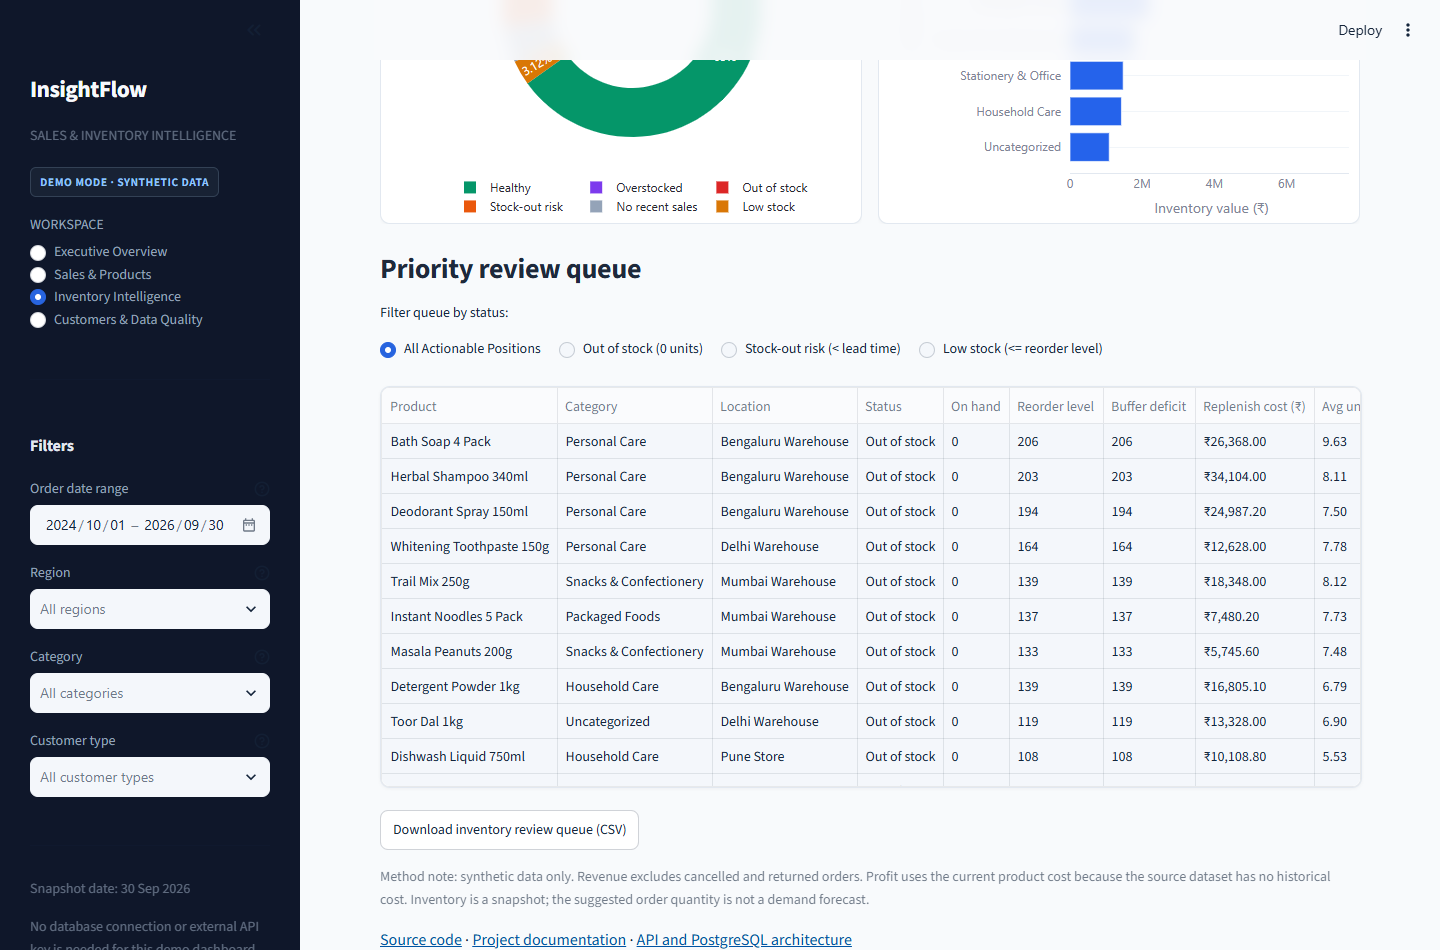
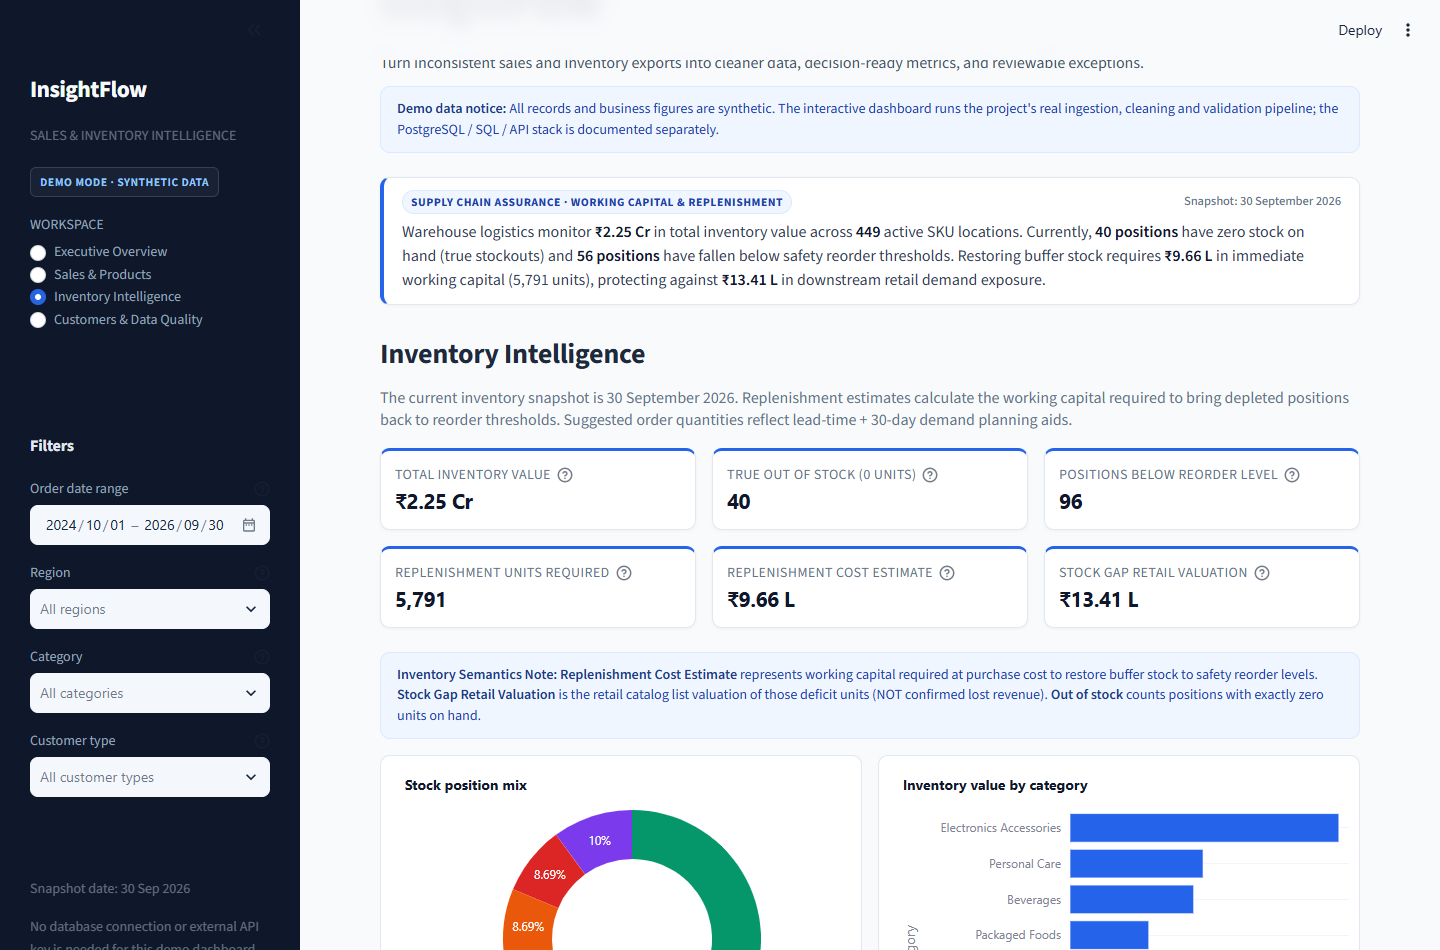
fix(ui): polish Streamlit KPI card presentation and refresh Power BI report captures
- Prevent truncation and ellipsis in Streamlit KPI metric values using responsive clamp sizing
- Preserve full currency precision in help tooltips with format_exact_inr()
- Update Power BI PBIP visual containers with human-friendly headers and axis titles
- Configure Margin Investigation scatter chart Details role for product-level point plotting
- Sort Inventory replenishment queue descending and format stock values in Lakhs and Crores
- Recapture genuine high-resolution screenshots for all Streamlit runtime and Power BI Desktop views

diff --git a/streamlit_app.py b/streamlit_app.py
@@ -1,5 +1,6 @@
 """Interactive InsightFlow demo dashboard; requires no PostgreSQL credentials."""
 
+import math
 from datetime import date
 
 import pandas as pd
@@ -61,14 +62,26 @@ st.markdown(
       }
       [data-testid="stMetric"] {
         background: #ffffff; border: 1px solid #e2e8f0; border-top: 3px solid #2563eb;
-        border-radius: 10px; padding: 14px 18px; box-shadow: 0 1px 3px rgba(0,0,0,0.04);
+        border-radius: 10px; padding: 12px 14px; box-shadow: 0 1px 3px rgba(0,0,0,0.04);
+        min-width: 0;
       }
       [data-testid="stMetricLabel"] {
-        color: #64748b !important; font-size: 0.80rem !important; font-weight: 650 !important;
+        color: #64748b !important; font-size: 0.78rem !important; font-weight: 650 !important;
         text-transform: uppercase; letter-spacing: 0.03em;
+        white-space: nowrap; overflow: hidden; text-overflow: ellipsis;
       }
       [data-testid="stMetricValue"] {
         color: #0f172a !important; font-weight: 750 !important; letter-spacing: -0.02em !important;
+        font-size: clamp(1.2rem, 1.45vw, 1.6rem) !important;
+        line-height: 1.25 !important;
+        white-space: nowrap !important;
+        overflow: visible !important;
+      }
+      [data-testid="stMetricValue"] > div {
+        font-size: inherit !important;
+        line-height: inherit !important;
+        white-space: nowrap !important;
+        overflow: visible !important;
       }
       div[data-testid="stPlotlyChart"] {
         background: #ffffff; border: 1px solid #e2e8f0; border-radius: 10px;
@@ -254,17 +267,41 @@ st.markdown(
 )
 
 
+def format_exact_inr(value: float | int | None) -> str:
+    """Format an exact currency amount in INR for tooltips and inspectable details."""
+    if value is None or (isinstance(value, float) and math.isnan(value)):
+        return "—"
+    return f"₹{float(value):,.2f}"
+
+
 def metric_row(frame: pd.DataFrame) -> None:
     summary = sales_summary(frame)
     cols = st.columns(5)
-    cols[0].metric("Net revenue", format_inr(summary["revenue"]))
-    cols[1].metric("Gross profit", format_inr(summary["gross_profit"]))
+    cols[0].metric(
+        "Net revenue",
+        format_inr(summary["revenue"]),
+        help=f"Audited net turnover: {format_exact_inr(summary['revenue'])}",
+    )
+    cols[1].metric(
+        "Gross profit",
+        format_inr(summary["gross_profit"]),
+        help=f"Audited gross profit: {format_exact_inr(summary['gross_profit'])}",
+    )
     cols[2].metric(
         "Gross margin",
         f"{summary['margin_pct']:.1f}%" if summary["margin_pct"] is not None else "—",
+        help="Gross Profit ÷ Net Revenue across fulfilled orders",
     )
-    cols[3].metric("Completed orders", f"{summary['orders']:,}")
-    cols[4].metric("Average order value", format_inr(summary["average_order_value"]))
+    cols[3].metric(
+        "Completed orders",
+        f"{summary['orders']:,}",
+        help=f"Total fulfilled customer orders: {summary['orders']:,}",
+    )
+    cols[4].metric(
+        "Average order value",
+        format_inr(summary["average_order_value"]),
+        help=f"Audited average order value: {format_exact_inr(summary['average_order_value'])}",
+    )
 
 
 def style_chart(
@@ -852,18 +889,38 @@ elif page == "Inventory Intelligence":
     needs_action = filtered_inventory.loc[filtered_inventory["stock_status"].isin(action_statuses)]
 
     cols1 = st.columns(3)
-    cols1[0].metric("Total Inventory Value", format_inr(inv_stats["total_inventory_value"]))
-    cols1[1].metric("True Out of Stock (0 units)", f"{inv_stats['stockout_positions']:,}")
-    cols1[2].metric("Positions Below Reorder Level", f"{inv_stats['below_reorder_positions']:,}")
+    cols1[0].metric(
+        "Total Inventory Value",
+        format_inr(inv_stats["total_inventory_value"]),
+        help=f"Audited inventory value at cost: {format_exact_inr(inv_stats['total_inventory_value'])}",
+    )
+    cols1[1].metric(
+        "True Out of Stock (0 units)",
+        f"{inv_stats['stockout_positions']:,}",
+        help="Stock positions with exactly 0 units on hand",
+    )
+    cols1[2].metric(
+        "Positions Below Reorder Level",
+        f"{inv_stats['below_reorder_positions']:,}",
+        help="Stock positions where quantity on hand is below safety reorder threshold",
+    )
 
     cols2 = st.columns(3)
     cols2[0].metric(
-        "Replenishment Units Required", f"{inv_stats['replenishment_units_required']:,}"
+        "Replenishment Units Required",
+        f"{inv_stats['replenishment_units_required']:,}",
+        help="Total units required to restore depleted buffers to safety levels",
     )
     cols2[1].metric(
-        "Replenishment Cost Estimate", format_inr(inv_stats["replenishment_cost_estimate"])
+        "Replenishment Cost Estimate",
+        format_inr(inv_stats["replenishment_cost_estimate"]),
+        help=f"Audited working capital required at purchase cost: {format_exact_inr(inv_stats['replenishment_cost_estimate'])}",
     )
-    cols2[2].metric("Stock Gap Retail Valuation", format_inr(inv_stats["stock_gap_retail_val"]))
+    cols2[2].metric(
+        "Stock Gap Retail Valuation",
+        format_inr(inv_stats["stock_gap_retail_val"]),
+        help=f"Retail catalog list valuation of deficit units: {format_exact_inr(inv_stats['stock_gap_retail_val'])}",
+    )
 
     st.markdown(
         '<div class="if-note" style="margin-top: 0.5rem; margin-bottom: 1rem;">'

diff --git a/scripts/validate_runtime_ui.py b/scripts/validate_runtime_ui.py
@@ -97,8 +97,14 @@ def run_ui_qa():
             page.locator('[data-testid="stSidebar"]').get_by_text(
                 "Sales & Products", exact=True
             ).click()
-            page.wait_for_selector("text=Price & Margin Sensitivity Simulator", timeout=15000)
-            page.wait_for_timeout(2000)
+            page.wait_for_selector("text=Sales & Product Performance", timeout=15000)
+            page.wait_for_timeout(1500)
+
+            # Capture Sales & Products at top position showing KPIs and charts
+            page.locator("text=Sales & Product Performance").scroll_into_view_if_needed()
+            page.wait_for_timeout(1000)
+            page.screenshot(path=str(OUTPUT_DIR / "02_sales_and_products.png"))
+            print("Captured fresh 02_sales_and_products.png at top position")
 
             # Check initial simulator display (defaults to Basmati Rice P0010)
             sim_metrics_before = page.locator('[data-testid="stMetricValue"]').all_text_contents()
@@ -120,15 +126,12 @@ def run_ui_qa():
                 page.wait_for_timeout(2000)
                 print("Clicked Explicit volume change mode.")
 
-            # Capture focused simulator view
+            # Capture focused simulator component
             sim_section = page.locator("div.st-key-price-sensitivity-simulator")
             sim_section.scroll_into_view_if_needed()
             page.wait_for_timeout(1000)
             sim_section.screenshot(path=str(OUTPUT_DIR / "02_price_sensitivity_simulator.png"))
             print("Captured fresh 02_price_sensitivity_simulator.png")
-
-            page.screenshot(path=str(OUTPUT_DIR / "02_sales_and_products.png"), full_page=True)
-            print("Captured fresh 02_sales_and_products.png")
 
             # ---------------------------------------------------------
             # 3. Inventory Intelligence
@@ -138,7 +141,7 @@ def run_ui_qa():
                 "Inventory Intelligence", exact=True
             ).click()
             page.wait_for_selector("text=Priority review queue", timeout=20000)
-            page.wait_for_timeout(2500)
+            page.wait_for_timeout(1500)
 
             inv_metric_vals = page.locator('[data-testid="stMetricValue"]').all_text_contents()
             inv_metric_labels = page.locator('[data-testid="stMetricLabel"]').all_text_contents()
@@ -160,8 +163,11 @@ def run_ui_qa():
             print("Table has Replenish cost column:", has_replenish_cost)
             results["table_has_replenish_fields"] = has_buffer_deficit and has_replenish_cost
 
-            page.screenshot(path=str(OUTPUT_DIR / "03_inventory_intelligence.png"), full_page=True)
-            print("Captured fresh 03_inventory_intelligence.png")
+            # Capture Inventory Intelligence from top position showing key inventory cards & charts
+            page.get_by_text("Total Inventory Value", exact=True).first.scroll_into_view_if_needed()
+            page.wait_for_timeout(1000)
+            page.screenshot(path=str(OUTPUT_DIR / "03_inventory_intelligence.png"))
+            print("Captured fresh 03_inventory_intelligence.png at top position")
 
             # ---------------------------------------------------------
             # 4. Customers & Data Quality
@@ -171,7 +177,7 @@ def run_ui_qa():
                 "Customers & Data Quality", exact=True
             ).click()
             page.wait_for_selector("text=Data quality actions", timeout=20000)
-            page.wait_for_timeout(2500)
+            page.wait_for_timeout(1500)
 
             dq_metric_vals = page.locator('[data-testid="stMetricValue"]').all_text_contents()
             dq_metric_labels = page.locator('[data-testid="stMetricLabel"]').all_text_contents()
@@ -179,10 +185,13 @@ def run_ui_qa():
             print("Data Quality metrics displayed:", dq_metrics)
             results["data_quality_metrics"] = dq_metrics
 
-            page.screenshot(
-                path=str(OUTPUT_DIR / "04_customers_and_data_quality.png"), full_page=True
-            )
-            print("Captured fresh 04_customers_and_data_quality.png")
+            # Capture Customers & Data Quality from top header showing reconciliation metrics
+            page.locator(
+                "text=Pipeline Assurance & Reconciliation Balance"
+            ).scroll_into_view_if_needed()
+            page.wait_for_timeout(1000)
+            page.screenshot(path=str(OUTPUT_DIR / "04_customers_and_data_quality.png"))
+            print("Captured fresh 04_customers_and_data_quality.png at top position")
 
             browser.close()
             print(
